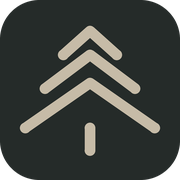
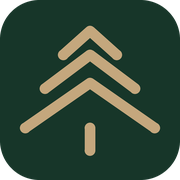
gas

diff --git a/js/cards.js b/js/cards.js
@@ -4,16 +4,16 @@
    img   - путь к PNG/JPG/WebP. Без img карточка рисуется из цветов a/c.
    trim:false - не обрезать белые поля вокруг картинки (по умолчанию обрезаются).
    Остальное: k - подпись кнопки, h/p/o - заголовок, описание, пометка. */
-window.SITE={telegram:'nft1shkin',max:'',phone:'+79500897913'};   // telegram: ник без @; max: полная ссылка на профиль в Max (https://max.ru/...); phone: номер для звонка
+window.SITE={telegram:'nft1shkin',max:'https://max.ru/u/f9LHodD0cOKueliC1RtZSnGr5BJY_Rhh0U6NZbIw7HrZ_rbPN4EXUc4_IXE',phone:'+79500897913'};   // telegram: ник без @; max: полная ссылка на профиль в Max (https://max.ru/...); phone: номер для звонка
 window.HERO='2gis';          // id карточки на первом экране
 window.CARDS=[
 {id:'2gis',k:'2ГИС',h:'Отзывы в 2ГИС',p:'Касание открывает страницу отзыва вашей организации в 2ГИС.',o:'Готовое решение, оформление согласуется.',b:'Оцените нас в 2ГИС',s:'Приложите телефон',a:'#4f6b57',c:'#27382f',img:'images/2gis.webp'},
 {id:'yandex',k:'Яндекс Карты',h:'Отзывы в Яндекс Картах',p:'Метка ведёт в карточку вашей компании на Яндекс Картах, к форме отзыва.',o:'Готовое решение, оформление согласуется.',b:'Напишите отзыв на Картах',s:'Приложите телефон',a:'#a8665a',c:'#3a2926',img:'images/yandex.webp'},
-{id:'instagram',k:'Instagram',h:'Подписка на Instagram',p:'Касание открывает ваш профиль в Instagram: гость подписывается в пару нажатий.',o:'Ссылка и оформление под ваш аккаунт.',b:'Мы в Instagram',s:'Приложите телефон',a:'#d6336c',c:'#5b3fd1',logo:'ig'},
-{id:'vk',k:'ВКонтакте',h:'Ваша страница ВКонтакте',p:'Метка ведёт в ваше сообщество или на личную страницу ВКонтакте.',o:'Ссылка и оформление под ваш аккаунт.',b:'Мы ВКонтакте',s:'Приложите телефон',a:'#2d8cff',c:'#0b4fb3',logo:'vk'},
-{id:'telegram',k:'Telegram',h:'Ваш Telegram',p:'Касание открывает ваш канал, чат или личный профиль в Telegram.',o:'Ссылка и оформление под ваш аккаунт.',b:'Мы в Telegram',s:'Приложите телефон',a:'#38b0e3',c:'#1b6aa5',logo:'tg'},
-{id:'menu',k:'NFC-меню',h:'NFC-меню',p:'Гость касается подставки и видит актуальное меню, прайс или каталог.',o:'Под заказ: размер и ссылка обсуждаются.',b:'Меню в одно касание',s:'Приложите телефон',a:'#5f7384',c:'#2e3841',img:'images/menu.png'},
-{id:'brand',k:'Своё решение',h:'Своё решение',p:'Загрузите PNG, и он появится на выбранном макете. Материал, размер и ссылку обсудим под вашу задачу.',o:'Картинка остаётся только в вашем браузере и пропадёт после обновления страницы.',b:'Ваш логотип здесь',s:'Дизайн под бренд',a:'#efede3',c:'#cfcbb8',t:'#302f2c',img:'images/brand.png'}];
+{id:'instagram',k:'Instagram',h:'Подписка на Instagram',p:'Касание открывает ваш профиль в Instagram: гость подписывается в пару нажатий.',o:'Ссылка и оформление под ваш аккаунт.',b:'Мы в Instagram',s:'Приложите телефон',a:'#d6336c',c:'#5b3fd1',logo:'ig',img:'images/instagram.webp'},
+{id:'vk',k:'ВКонтакте',h:'Ваша страница ВКонтакте',p:'Метка ведёт в ваше сообщество или на личную страницу ВКонтакте.',o:'Ссылка и оформление под ваш аккаунт.',b:'Мы ВКонтакте',s:'Приложите телефон',a:'#2d8cff',c:'#0b4fb3',logo:'vk',img:'images/vk.webp'},
+{id:'telegram',k:'Telegram',h:'Ваш Telegram',p:'Касание открывает ваш канал, чат или личный профиль в Telegram.',o:'Ссылка и оформление под ваш аккаунт.',b:'Мы в Telegram',s:'Приложите телефон',a:'#38b0e3',c:'#1b6aa5',logo:'tg',img:'images/telegram.webp'},
+{id:'menu',k:'NFC-меню',h:'NFC-меню',p:'Гость касается подставки и видит актуальное меню, прайс или каталог.',o:'Под заказ: размер и ссылка обсуждаются.',b:'Меню в одно касание',s:'Приложите телефон',a:'#5f7384',c:'#2e3841'},
+{id:'brand',k:'Своё решение',h:'Своё решение',p:'Загрузите PNG, и он появится на выбранном макете. Материал, размер и ссылку обсудим под вашу задачу.',o:'Картинка остаётся только в вашем браузере и пропадёт после обновления страницы.',b:'Ваш логотип здесь',s:'Дизайн под бренд',a:'#efede3',c:'#cfcbb8',t:'#302f2c'}];
 /* Вкладки «Что откроется». items - id карточек из CARDS: если их несколько, на модели они сменяются сами. */
 window.GROUPS=[
 {id:'reviews',k:'Отзывы',items:['2gis','yandex']},
@@ -21,11 +21,24 @@ window.GROUPS=[
 {id:'menu',k:'NFC-меню',items:['menu']},
 {id:'own',k:'Своё решение',items:['brand']}];
 
+/* КАК ДОБАВИТЬ КАРТИНКУ ДЛЯ ВК, TELEGRAM (и любой другой карточки)
+   1) Положите квадратную картинку (PNG или WebP, от 600 px; углы можно сделать прозрачными) в папку images/,
+      например images/vk.webp и images/telegram.webp.
+   2) В строке нужной карточки выше допишите img:'images/vk.webp' (перед закрывающей }).
+      Картинка появится на карточке и наклейке. То же самое для меню: img:'images/menu.webp'.
+   3) Для таблички пропорции другие (4:5), поэтому нужна отдельная картинка images/faces/plate-vk.webp.
+      Её имя (plate-vk) допишите в список FACES ниже. Без неё на табличке рисуется запасной вариант.
+   Файлы, которых нет в списках ниже, сайт не запрашивает, лишних загрузок нет. */
+/* Готовые картинки под табличку, карточку и визитку (images/faces/<имя>.webp). Дописывайте сюда новые. */
+window.FACES=['biz','card-menu','plate-2gis','plate-menu','plate-yandex','sticker-menu'];
+/* Фото готовых заказов (images/photos/<имя>.jpg). Пока пусто, поэтому кнопки «Фото» скрыты. Например: 'card-2gis-1.jpg' */
+window.PHOTOS=[];
+
 /* Форматы. Фото лежат в images/photos/: формат-содержимое-номер.jpg (например sticker-2gis-1.jpg), у визиток biz-номер.jpg.
    demo - какая карточка-содержимое показана на первом экране. w/h - пропорции, t - толщина в 3D,
    mat - покрытие: gloss (глянец) или matte (матовое). */
 window.FORMATS=[
-{id:'card',n:'NFC-карточка',price:2000,dim:'8 × 8 см',ma:'Глянцевая, с объёмным эффектом',k:'Карточки',h:'NFC-карточка',p:'Плотная глянцевая карточка с объёмом.',where:'Ресепшен, стойка, раздатка',size:'Размер согласуем при заказе',w:1,h:1,t:.09,bv:.018,fit:true,mat:'gloss',edge:0x4a5a50,demo:'2gis'},
-{id:'sticker',n:'NFC-наклейка',price:2000,dim:'По размеру поверхности',ma:'Матовая, самоклеящаяся',k:'Наклейки',h:'NFC-наклейка',p:'Плоская матовая наклейка.',where:'Касса, дверь, терминал, зеркало',size:'Размер под поверхность',w:1,h:1,t:.01,bv:0,fit:true,mat:'matte',edge:0xf2f0e8,demo:'yandex'},
+{id:'card',n:'NFC-карточка',price:2000,dim:'9 × 9 см',ma:'Акрил (оргстекло), толщина 2 мм',k:'Карточки',h:'NFC-карточка',p:'Плотная глянцевая карточка с объёмом.',where:'Ресепшен, стойка, раздатка',size:'Размер согласуем при заказе',w:1,h:1,t:.09,bv:.018,fit:true,mat:'gloss',edge:0x4a5a50,demo:'2gis'},
+{id:'sticker',n:'NFC-наклейка',price:900,dim:'По размеру поверхности',ma:'Матовая, самоклеящаяся',k:'Наклейки',h:'NFC-наклейка',p:'Плоская матовая наклейка.',where:'Касса, дверь, терминал, зеркало',size:'Размер под поверхность',w:1,h:1,t:.01,bv:0,fit:true,mat:'matte',edge:0xf2f0e8,demo:'instagram'},
 {id:'plate',n:'NFC-табличка',price:2000,dim:'Размер и основание по задаче',ma:'Акрил (оргстекло) на небольшом основании',k:'Таблички',h:'NFC-табличка',p:'Акрил на небольшом основании.',where:'Стол, стойка, входная группа',size:'Размер и основание по задаче',w:100,h:125,t:.1,bv:.012,mat:'gloss',edge:0xcdd9d6,demo:'menu'},
-{id:'biz',n:'NFC-визитка',price:2000,dim:'Стандартный размер визитки',ma:'Матовая, с NFC-чипом внутри',k:'Визитки',h:'NFC-визитка',p:'Матовая визитка с чипом внутри.',where:'Встречи, выставки, раздатка',size:'Компактная визитка',w:72,h:50,t:.022,bv:.006,mat:'matte',edge:0xe8e4d6,demo:'brand'}];
+{id:'biz',n:'NFC-визитка',price:700,dim:'Стандартный размер визитки',ma:'Матовая, с NFC-чипом внутри',k:'Визитки',h:'NFC-визитка',p:'Матовая визитка с чипом внутри.',where:'Встречи, выставки, раздатка',size:'Компактная визитка',w:72,h:50,t:.022,bv:.006,mat:'matte',edge:0xe8e4d6,demo:'brand'}];

diff --git a/js/formats.js b/js/formats.js
@@ -44,22 +44,22 @@ const f=F[fi],a=asp(f,f.id==='biz'?{}:byId('brand')),img=await decode(buf);OWN[c
 catch(e){st.textContent=typeof e==='string'?e:'Не удалось открыть картинку'}}})();
 /* цены: карточки и переход «Узнать цену» к выбранному формату */
 (function(){const g=$('#pg');if(!g)return;const fm=n=>String(n).replace(/\B(?=(\d{3})+$)/g,'\u00a0');
-g.innerHTML=F.map(x=>'<div class="card" data-f="'+x.id+'"><h3>'+x.n+'</h3><div class="pr"><small>от</small> '+(x.price?fm(x.price)+'\u00a0₽':'по запросу')+'</div><dl><dt>Размер</dt><dd>'+x.dim+'</dd><dt>Материал</dt><dd>'+x.ma+'</dd></dl><p class="mut">'+x.p+'</p></div>').join('');
+g.innerHTML=F.map(x=>'<div class="card" data-f="'+x.id+'"><h3>'+x.n+'</h3><div class="pr">'+(x.price?fm(x.price)+'\u00a0₽ <small>за штуку</small>':'<small>по запросу</small>')+'</div><dl><dt>Размер</dt><dd>'+x.dim+'</dd><dt>Материал</dt><dd>'+x.ma+'</dd></dl><p class="mut">'+x.p+'</p></div>').join('');
 let ht;window.priceGo=id=>{const s=$('#price'),c=g.querySelector('[data-f="'+id+'"]'),sm=RM?'auto':'smooth';if(!s)return;
 s.scrollIntoView({behavior:sm,block:'start'});
 if(c){const gr=g.getBoundingClientRect(),cr=c.getBoundingClientRect();g.scrollTo({left:Math.max(0,cr.left-gr.left+g.scrollLeft-16),behavior:sm});
 g.querySelectorAll('.card').forEach(e=>e.classList.toggle('hl',e===c));clearTimeout(ht);ht=setTimeout(()=>c.classList.remove('hl'),3200)}};
 const pb=$('#pricebtn');if(pb)pb.addEventListener('click',e=>{e.preventDefault();priceGo(F[fi].id)})})();
 function trim(im,doTrim){const M=1024,q=Math.min(1,M/Math.max(im.naturalWidth,im.naturalHeight)),w=Math.round(im.naturalWidth*q),h=Math.round(im.naturalHeight*q),k=document.createElement('canvas');k.width=w;k.height=h;const x=k.getContext('2d');x.drawImage(im,0,0,w,h);if(!doTrim)return k;let d;try{d=x.getImageData(0,0,w,h).data}catch(e){return k}let x0=w,y0=h,x1=0,y1=0;for(let j=0;j<h;j++)for(let i=0;i<w;i++){const p=(j*w+i)*4;if(d[p+3]<16||(d[p]>244&&d[p+1]>244&&d[p+2]>244))continue;if(i<x0)x0=i;if(i>x1)x1=i;if(j<y0)y0=j;if(j>y1)y1=j}if(x1-x0<w*.3||y1-y0<h*.3)return k;const o=document.createElement('canvas');o.width=x1-x0+1;o.height=y1-y0+1;o.getContext('2d').drawImage(k,x0,y0,o.width,o.height,0,0,o.width,o.height);return o}
-const lf=(f,c)=>new Promise(r=>{const i=new Image(),k=c?f.id+'-'+c.id:'biz';i.onload=()=>{try{IMF[k]=trim(i,!!f.fit)}catch(e){IMF[k]=i}r()};i.onerror=()=>r();i.src='images/faces/'+k+'.webp'});
-const mkFL=()=>{const a=[];F.forEach(f=>f.id==='biz'?a.push(lf(f)):C.forEach(c=>{if(!c.logo)a.push(lf(f,c))}));return a};
+const lf=(f,c)=>new Promise(r=>{const i=new Image(),k=c?f.id+'-'+c.id:'biz';if(window.FACES&&!FACES.includes(k))return r();i.onload=()=>{try{IMF[k]=trim(i,!!f.fit)}catch(e){IMF[k]=i}r()};i.onerror=()=>r();i.src='images/faces/'+k+'.webp'});
+const mkFL=()=>{const a=[];F.forEach(f=>f.id==='biz'?a.push(lf(f)):C.forEach(c=>a.push(lf(f,c))));return a};
 const load=c=>new Promise(r=>{if(!c.img)return r();const i=new Image();i.onload=()=>{try{IM[c.id]=trim(i,c.trim!==false)}catch(e){IM[c.id]=i}r()};i.onerror=()=>r();i.src=c.img});
 function wrap(x,t,mx){let l='',o=[];t.split(' ').forEach(s=>{const n=l?l+' '+s:s;if(x.measureText(n).width>mx&&l){o.push(l);l=s}else l=n});o.push(l);return o}
 function nfc(x,cx,cy,r,col){x.strokeStyle=x.fillStyle=col;x.lineWidth=r*.16;x.lineCap='round';x.beginPath();x.arc(cx,cy,r*.1,0,7);x.fill();[.45,.85].forEach(k=>[[-.7,.7],[Math.PI-.7,Math.PI+.7]].forEach(a=>{x.beginPath();x.arc(cx,cy,r*k,a[0],a[1]);x.stroke()}))}
 /* лицевая сторона: картинка из images/ или рисунок из цветов карточки */
 function face(f,c){const ow=OWN[cls(f)];if(ow&&(f.id==='biz'||c.id==='brand')){const k=document.createElement('canvas');k.width=ow.width;k.height=ow.height;k.getContext('2d').drawImage(ow,0,0);return k}const df=IMF[f.id==='biz'?'biz':f.id+'-'+c.id];if(df){const k=document.createElement('canvas');k.width=df.width;k.height=df.height;k.getContext('2d').drawImage(df,0,0);return k}if(f.fit&&IM[c.id]){const im=IM[c.id],k=document.createElement('canvas');k.width=im.width;k.height=im.height;k.getContext('2d').drawImage(im,0,0);return k}const w=1024,h=Math.round(w*f.h/f.w),k=document.createElement('canvas');k.width=w;k.height=h;const x=k.getContext('2d'),im=IM[c.id],L=w/h>1.2;x.textBaseline='top';
 if(f.id==='biz'){x.fillStyle='#efede3';x.fillRect(0,0,w,h);x.fillStyle='#302f2c';x.fillRect(0,0,w*.025,h);const m=h,p=w*.08;x.font='700 '+m*.1+'px '+FONT;x.fillText('Название компании',p,h*.12);x.globalAlpha=.55;x.font='500 '+m*.05+'px '+FONT;x.fillText('Чем занимается компания',p,h*.12+m*.13);x.globalAlpha=1;x.font='600 '+m*.065+'px '+FONT;x.fillText('Имя Фамилия',p,h*.52);x.globalAlpha=.6;x.font='500 '+m*.048+'px '+FONT;x.fillText('Должность',p,h*.52+m*.09);x.fillText('+7 000 000-00-00',p,h*.74);x.fillText('company.ru',p,h*.74+m*.07);x.globalAlpha=1;nfc(x,w-m*.2,h-m*.2,m*.12,'#302f2c');return k}
-if(c.logo){const g2=x.createLinearGradient(0,0,w,h);g2.addColorStop(0,c.a);g2.addColorStop(1,c.c);x.fillStyle=g2;x.fillRect(0,0,w,h);const m=Math.min(w,h),p=m*.08;glyph(x,c.logo,p,p,m*.22);x.fillStyle='#fff';x.font='700 '+m*.085+'px '+FONT;const ls=wrap(x,c.b,w-p*2);ls.forEach((l,i)=>x.fillText(l,p,p+m*.32+i*m*.1));x.globalAlpha=.75;x.font='500 '+m*.04+'px '+FONT;x.fillText(c.s,p,p+m*.32+ls.length*m*.1+m*.02);x.globalAlpha=1;nfc(x,w-m*.2,h-m*.2,m*.13,'#fff');return k}
+if(c.logo&&(!im||Math.abs(im.width/im.height-w/h)>.12)){const g2=x.createLinearGradient(0,0,w,h);g2.addColorStop(0,c.a);g2.addColorStop(1,c.c);x.fillStyle=g2;x.fillRect(0,0,w,h);const m=Math.min(w,h),p=m*.08;glyph(x,c.logo,p,p,m*.22);x.fillStyle='#fff';x.font='700 '+m*.085+'px '+FONT;const ls=wrap(x,c.b,w-p*2);ls.forEach((l,i)=>x.fillText(l,p,p+m*.32+i*m*.1));x.globalAlpha=.75;x.font='500 '+m*.04+'px '+FONT;x.fillText(c.s,p,p+m*.32+ls.length*m*.1+m*.02);x.globalAlpha=1;nfc(x,w-m*.2,h-m*.2,m*.13,'#fff');return k}
 if(im){x.fillStyle='#fff';x.fillRect(0,0,w,h);
 if(!L){const s=Math.min(w/im.width,h/im.height);x.drawImage(im,(w-im.width*s)/2,(h-im.height*s)/2,im.width*s,im.height*s)}
 else{x.drawImage(im,0,0,h,h);const px=h+24,pw=w-px-40;x.fillStyle='#302f2c';x.font='600 '+h*.1+'px '+FONT;wrap(x,c.s,pw).forEach((l,i)=>x.fillText(l,px,h*.12+i*h*.12));nfc(x,px+pw/2,h*.66,h*.2,'#302f2c')}}
@@ -118,10 +118,10 @@ txt(!!spin);dots();upUI();cycle();combo&&combo.set(f.id,biz?{}:C[ci],spin)}
 /* галерея под моделью: 3D, фото 1-3, снова 3D */
 const gp=$('#gp'),gd=$('#gd');let gi=0;
 function gShow(){[...gp.children].forEach((d,i)=>d.hidden=i!==gi-1);gp.classList.toggle('on',gi>0);[...gd.children].forEach((b,i)=>b.setAttribute('aria-current',i==gi));if(combo)combo.hold=gi>0;const cv=$('#sw');if(cv)cv.style.opacity=gi>0?0:1}
-function gBuild(){const f=F[fi],ph=[1,2,3].map(n=>'images/photos/'+(f.id==='biz'?'biz-':f.id+'-'+C[ci].id+'-')+n+'.jpg');gp.innerHTML='';gd.innerHTML='';
+function gBuild(){const f=F[fi],ph=[1,2,3].map(n=>'images/photos/'+(f.id==='biz'?'biz-':f.id+'-'+C[ci].id+'-')+n+'.jpg').filter(s=>!window.PHOTOS||PHOTOS.includes(s.slice(14)));gp.innerHTML='';gd.innerHTML='';
 ph.forEach((s,i)=>{const d=document.createElement('div');d.className='gs';d.hidden=true;const im=new Image();im.alt=f.h+', фото '+(i+1);im.onload=()=>d.classList.add('ok');im.onerror=()=>im.remove();im.src=s;d.append(im);gp.append(d)});
-['3D'].concat(ph.map((_,i)=>'Фото '+(i+1))).forEach((t,i)=>{const b=document.createElement('button');b.textContent=t;b.onclick=()=>{gi=i;gShow()};gd.append(b)});gi=0;gShow()}
-window.gal=d=>{const n=4;gi=(gi+d+n)%n;gShow()};
+['3D'].concat(ph.map((_,i)=>'Фото '+(i+1))).forEach((t,i)=>{const b=document.createElement('button');b.textContent=t;b.onclick=()=>{gi=i;gShow()};gd.append(b)});const has=ph.length>0;gd.hidden=!has;$('#pv').hidden=!has;$('#nx').hidden=!has;gi=0;gShow()}
+window.gal=d=>{const n=1+gp.children.length;if(n<2)return;gi=(gi+d+n)%n;gShow()};
 window.swGroup=(g,first)=>{grp=g;vi=0;ci=C.indexOf(items()[0]);gBuild();upd(!first)};gBuild();upd();
 /* 3D запускается, когда загружены шрифты и картинки */
 /* 3D запускается сразу, как загружена картинка первого экрана; остальное подгружается позже, камера второго блока создаётся при подходе к нему */
@@ -130,8 +130,9 @@ const heroC=byId(F[0].demo),refresh=()=>{ver++;V.forEach(s=>s.clear&&s.clear());
 Promise.all([load(heroC),lf(F[0],heroC)]).then(()=>{if(!window.THREE)return;
 hero=View($('#ht'),{zone:document.querySelector('.hero')});hs(hi);auto();
 const io=new IntersectionObserver(es=>es.forEach(e=>{const s=V.find(v=>v.cv===e.target);if(s)s.vis=e.isIntersecting}));if(hero.cv)io.observe(hero.cv);
-const cio=new IntersectionObserver((es,o)=>{if(es.some(e=>e.isIntersecting)){o.disconnect();combo=View($('#sw'),{});io.observe(combo.cv);upd()}},{rootMargin:'600px'});cio.observe($('#sw'));
-setTimeout(()=>Promise.all(C.filter(c=>c!==heroC).map(load).concat(mkFL())).then(refresh),500);
+const cio=new IntersectionObserver((es,o)=>{if(es.some(e=>e.isIntersecting)){o.disconnect();loadRest();combo=View($('#sw'),{});io.observe(combo.cv);upd()}},{rootMargin:'600px'});cio.observe($('#sw'));
+let rest=0;const loadRest=()=>{if(rest)return;rest=1;Promise.all(C.filter(c=>c!==heroC).map(load).concat(mkFL())).then(refresh)};
+(window.requestIdleCallback||setTimeout)(loadRest,window.requestIdleCallback?{timeout:3500}:2000);
 document.fonts.ready.then(refresh);
 if(!RM)(function L(t){if(!document.hidden)V.forEach(s=>s.vis&&!s.hold&&s.f&&s.f(t));requestAnimationFrame(L)})(0)});
 })();

diff --git a/index.html b/index.html
@@ -8,12 +8,12 @@
 <meta property="og:title" content="Taiga NFC — NFC-решения для бизнеса">
 <meta property="og:description" content="Таблички и метки для отзывов, меню и связи с клиентами. Дизайн под ваш бренд.">
 <meta property="og:type" content="website">
-<link rel="preconnect" href="https://fonts.googleapis.com"><link rel="preconnect" href="https://fonts.gstatic.com" crossorigin><link rel="preconnect" href="https://cdnjs.cloudflare.com" crossorigin>
+<link rel="preload" as="image" href="images/2gis.webp"><link rel="preconnect" href="https://fonts.googleapis.com"><link rel="preconnect" href="https://fonts.gstatic.com" crossorigin><link rel="preconnect" href="https://cdnjs.cloudflare.com" crossorigin>
 <link rel="stylesheet" href="https://fonts.googleapis.com/css2?family=Manrope:wght@400;500;600;700&display=swap">
 <link rel="icon" href="images/favicon.svg" type="image/svg+xml">
 <link rel="icon" href="images/favicon.ico" sizes="48x48">
 <link rel="apple-touch-icon" href="images/apple-touch-icon.png">
-<meta name="theme-color" content="#E9E6DF">
+<meta name="theme-color" content="#E2EBE0">
 <link rel="stylesheet" href="css/style.css">
 </head>
 <body>
@@ -72,10 +72,10 @@
 <section id="price"><div class="w">
 <span class="eyebrow">Цены</span>
 <h2 style="margin:10px 0 8px">Сколько это стоит</h2>
-<p class="mut" style="max-width:34em">Цена указана за одну штуку и считается от стандартного варианта.</p>
+<p class="mut" style="max-width:36em">Цена указана за одну штуку. Всё подбираем индивидуально, так что у вас может выйти дешевле.</p>
 <div class="grid4" id="pg" style="margin-top:28px"></div>
-<div class="pn"><h3>Цену считаем индивидуально</h3>
-<div class="pn2"><p><b>Выйдет дешевле,</b> если размер меньше или тираж больше. Для крупных заказов обсудим скидку.</p><p><b>Выйдет дороже,</b> если нужен свой дизайн, другой материал или размер больше.</p></div>
+<div class="pn"><h3>Подберём под вас</h3>
+<div class="pn2"><p><b>Часто выходит дешевле:</b> размер меньше, тираж больше, материал проще. Для крупных заказов обсудим скидку.</p><p><b>Дороже,</b> если нужен свой дизайн, другой материал или размер больше. Скажите, что вам нужно, и мы посчитаем.</p></div>
 <div class="row" style="margin-top:20px"><a class="btn" href="#contact">Обсудить заказ</a></div></div>
 </div></section>
 

diff --git a/css/style.css b/css/style.css
@@ -1,4 +1,4 @@
-:root{--bg:#E9E6DF;--card:#F4F2ED;--ink:#252B29;--mut:#5A655D;--sea:#65736A;--sea2:rgba(168,169,154,.25);--line:rgba(37,43,41,.14);--acc:#A8A99A;--btn:#252B29;--btn-t:#E9E6DF;--logo:#65736A;--glow:none;--w0:#C4BDAB;--w1:#EDEAE2;--wh:#94A090;--ws:.6;--wc:2.1;--wm:.62;--r:20px;box-sizing:border-box;padding-top:env(safe-area-inset-top,0px);padding-bottom:env(safe-area-inset-bottom,0px);color-scheme:light}
+:root{--bg:#E2EBE0;--card:#D0DECF;--ink:#202722;--mut:#4F5D55;--sea:#244638;--sea2:rgba(196,167,125,.26);--line:rgba(23,54,41,.18);--acc:#C4A77D;--btn:#173629;--btn-t:#F2F6F0;--logo:#244638;--glow:none;--w0:#A9C4AE;--w1:#E2EBE0;--wh:#6E9A7C;--ws:.6;--wc:2.1;--wm:.62;--r:20px;box-sizing:border-box;padding-top:env(safe-area-inset-top,0px);padding-bottom:env(safe-area-inset-bottom,0px);color-scheme:light}
 *,*::before,*::after{box-sizing:inherit}
 html{scroll-behavior:smooth;scroll-padding-top:calc(env(safe-area-inset-top,0px) + 72px)}
 body{margin:0;background:var(--bg);color:var(--ink);font:400 17px/1.6 Manrope,system-ui,-apple-system,"Segoe UI",sans-serif;-webkit-font-smoothing:antialiased}
@@ -163,7 +163,7 @@ footer a{display:block;text-decoration:none;padding:4px 0}
 #price{scroll-margin-top:68px}
 #pg .card{transition:border-color .3s,box-shadow .3s}
 #pg .card.hl{border-color:var(--acc);box-shadow:0 0 0 1px var(--acc),0 0 28px color-mix(in srgb,var(--acc) 35%,transparent)}
-.pr{font-size:1.9rem;font-weight:700;line-height:1.2;margin:6px 0 14px}.pr small{font-size:.95rem;font-weight:500;color:var(--mut)}
+.pr{font-size:1.9rem;font-weight:700;line-height:1.2;margin:6px 0 14px}.pr small{display:block;font-size:.9rem;font-weight:500;color:var(--mut);margin-top:2px}
 #pg dl{margin:0 0 12px}#pg dt{font-size:.78rem;letter-spacing:.04em;text-transform:uppercase;color:var(--mut)}#pg dd{margin:2px 0 10px}
 .pn{margin-top:28px;padding:clamp(22px,4vw,36px);border:1px solid var(--line);border-radius:var(--r);background:var(--card)}
 .pn2{display:grid;grid-template-columns:1fr 1fr;gap:12px 40px;margin-top:14px}.pn2 p{margin:0}
@@ -178,3 +178,5 @@ footer a{display:block;text-decoration:none;padding:4px 0}
 #ups{margin-top:10px;min-height:1.4em}
 
 .tagl{font-size:.7rem;letter-spacing:.14em;margin:6px 0 0;color:var(--sea);font-weight:600}
+
+.arr[hidden],.gd[hidden]{display:none}

diff --git a/js/main.js b/js/main.js
@@ -132,3 +132,4 @@ ScrollTrigger.batch(els,{start:'top 90%',onEnter:b=>gsap.to(b,{opacity:1,y:0,dur
 (function(){const v=$('#vid'),b=$('#vbox');if(!v)return;const ok=()=>{if(!v.videoWidth)return;b.style.setProperty('--ar',v.videoWidth/v.videoHeight);b.style.aspectRatio=v.videoWidth+'/'+v.videoHeight;b.classList.add('ok')};v.addEventListener('loadedmetadata',ok);if(v.readyState>=1)ok()})();
 
 
+
